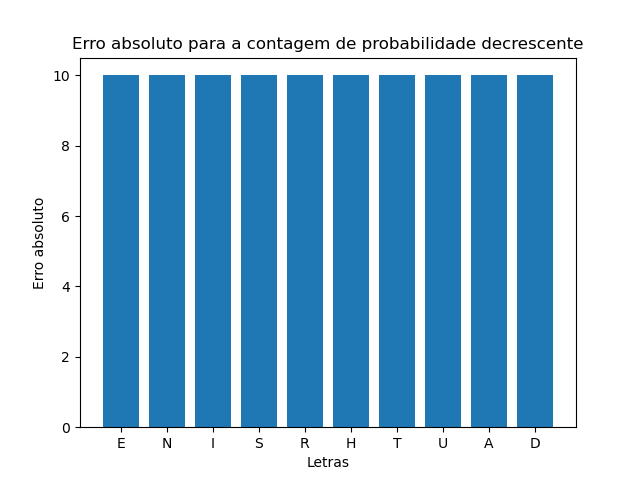
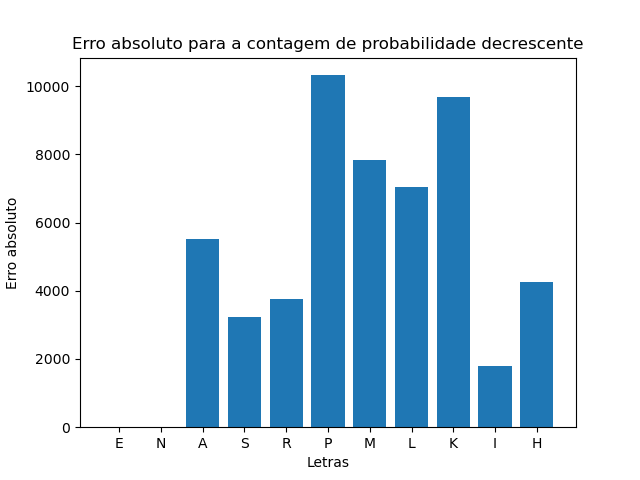
lossy-count opadissimo

diff --git a/project3/main.py b/project3/main.py
@@ -3,7 +3,6 @@ import sys, os, string, random, time, unidecode, json
 
 # Change this default variables, if needed
 FILES_PATH = 'books'            # the txt files path 
-THRESHOLD = 0.0001              # threshold used for Lossy-Count
 REPETITIONS = 10                # number of repetitions used for approximate counters
 K = [3, 5, 10]                  # K values to use on data stream algorithm (Lossy-Count)
 
@@ -57,29 +56,29 @@ def estimate_frequent_letters(method, content, k=None):
         
     elif method == "Lossy-Count":
         # Algorithm to identify frequent items in data streams: Lossy-Count
-        error = 1
+        n = 0
+        delta = 0
 
         # Iterate through the content
         for letter in content:
-            # Increment the count of the letter
+            n += 1
+
             if letter in estimate_freq:
                 estimate_freq[letter] += 1
             else:
-                estimate_freq[letter] = 1
+                estimate_freq[letter] = 1 + delta
 
-            # Decrease the error bound by threshold
-            error -= THRESHOLD
+            if n // k != delta:
+                delta = n // k
+                delete_letters = [ letter for letter, counter in estimate_freq.items()  if counter < delta ]
 
-            # If the error bound becomes negative, divide all counts by 2 and reset the error bound to 1
-            if error < 0:
-                estimate_freq = { letter : estimate_freq[letter] - 1 for letter in estimate_freq.keys() }
-                error = 1
+                for letter in delete_letters:
+                    del estimate_freq[letter]
 
     else:
         raise Exception(f"Error: the method '{method}' is unknown.")
 
     estimate_freq = sort(estimate_freq)   # sort the dict by letter estimate frequency
-    if k: estimate_freq = { i : estimate_freq[i] for i in list(estimate_freq.keys())[:k] } # returning the top k most frequent letters
     return estimate_freq
 
 
@@ -91,19 +90,18 @@ def error_stats(language_freq, method):
         f.write(f">> {language}\n")
 
         exact_values = language_freq[language]["exact"]
-        if method == "prob_counter": prob_counter_values = language_freq[language][method]
-        else: prob_counter_values = language_freq[language][method][10]
+        if method == "prob_counter": 
+            prob_counter_values = language_freq[language][method]
+
+        else: 
+            prob_counter_values = language_freq[language][method][10]
 
         info = {}
-
         for letter in prob_counter_values.keys():
-        
-            ### Decreasing probability counter
             abs_error = abs(exact_values[letter] - prob_counter_values[letter])         # Calculate absolute error
             rel_error = abs_error / exact_values[letter]                                # Calculate relative error
 
             info.update( { letter : { "absolute_error": abs_error, "relative_error": rel_error }} )
-
 
         f.write(json.dumps(info))
         f.write('\n')      
@@ -203,7 +201,7 @@ def main():
         print(f'      | {count["prob_counter"]}')  
         print(f'\n\tExecution time: {exec_times["prob_counter"]}s\n')
 
-        print(f"\n>> Lossy-Count (threshold={THRESHOLD})")
+        print(f"\n>> Lossy-Count")
         for k, count in count["lossy-count"].items():
             print(f'k= {k} | {count}') if k not in [3,5] else print(f'k= {k}  | {count}')
         print(f'\n\tExecution time: {exec_times["lossy-count"]}s\n')
@@ -213,23 +211,14 @@ if __name__ == "__main__":
     argv = sys.argv[1:]
     msg = f"""=================================================================================================
     python3 main.py (-t <threshold: float>) (-r <repetitions: int>)\n
-        -t | (optional) choose the threshold to use on Lossy-Count algorithm (float)
-           | by default, threshold= {THRESHOLD}
-           
+          
         -r | (optional) choose the number of repetitions to use on Approximate counters (int)
            | by default, repetitions= {REPETITIONS}\n
+
 =================================================================================================\n"""
 
     print(msg)
     for opt in argv:
-        if opt == "-t":
-            index = argv.index(opt) + 1
-            try:
-                THRESHOLD = float(argv[index])
-            except:
-                print("Error: threshold value must be a float.")
-                sys.exit()
-
         if opt == "-r":
             index = argv.index(opt) + 1
             try:

diff --git a/project3/plot.py b/project3/plot.py
@@ -1,4 +1,4 @@
-import json 
+import json, sys
 import numpy as np
 import matplotlib.pyplot as plt
 
